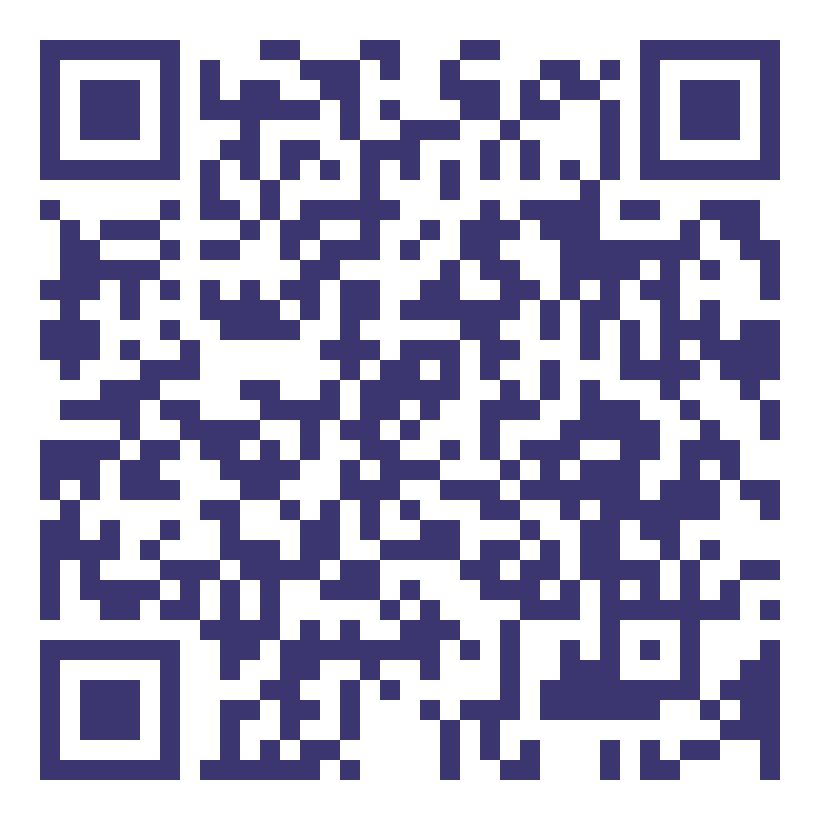
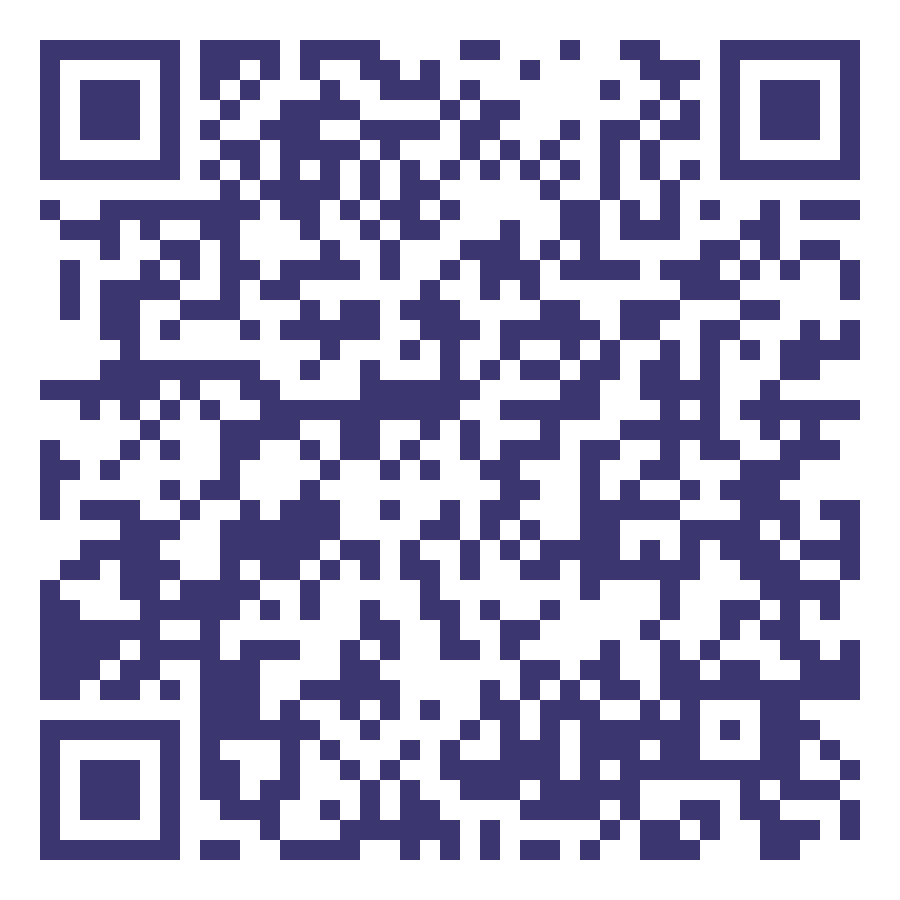
下载通道再优化：二维码及主下载改指 jsDelivr 直链（零登录墙、完整性 md5 已验证），Gitee Release 附件降为国内备用（微信 UA 会跳 OAuth 登录墙）；新增 Gitee v2.2.4 Release 附件分发；下载页标注 MD5

diff --git a/download.html b/download.html
@@ -25,13 +25,15 @@
   <h2>信息卡包 CardWallet</h2>
   <p>版本 v2.2.4 <span class="tag">最新</span></p>
   <p>常用信息加密管理 · 一秒取用 · 现代质感 UI</p>
-  <a class="btn" href="https://gitee.com/zhongda-st/cardwallet-release/raw/main/cardwallet-release.apk" download="cardwallet-v2.2.4.apk">国内高速下载（v2.2.4）</a>
-  <a class="btn secondary" href="cardwallet-release.apk?v=2.2.4" download="cardwallet-v2.2.4.apk">备用下载（GitHub）</a>
+  <a class="btn" href="https://cdn.jsdelivr.net/gh/Tony-zd/cardwallet-release@main/apk/cardwallet-latest.apk" download="cardwallet-v2.2.4.apk">国内高速下载（v2.2.4）</a>
+  <a class="btn secondary" href="https://gitee.com/zhongda-st/cardwallet-release/releases/download/v2.2.4/cardwallet-latest.apk" download="cardwallet-v2.2.4.apk">国内备用下载（Gitee）</a>
+  <a class="btn secondary" href="cardwallet-release.apk?v=2.2.4" download="cardwallet-v2.2.4.apk">GitHub 备用下载</a>
   <a class="btn secondary" href="https://gitee.com/zhongda-st/cardwallet-release/raw/main/%E6%B3%95%E5%BE%8B%E6%96%87%E6%A1%A3%E5%8C%85.zip" download="法律文档包.zip">下载法律文档包（隐私政策等）</a>
   <div class="meta">
     <p>包名: com.cardwallet.app · 最低 Android 6.0</p>
     <p>安装时需允许「安装未知应用」权限</p>
-    <p>国内用户优先使用「高速下载」；若链接失效，请点「备用下载」</p>
+    <p>优先使用「高速下载」；如失败或速度慢，请依次尝试备用链接</p>
+    <p>文件校验 MD5: f189af607cfbd18540898c010bd52fa0</p>
   </div>
 </div>
 </body>

diff --git a/index.html b/index.html
@@ -185,8 +185,8 @@
     <p class="subtitle">常用信息加密管理 · 一秒取用</p>
     <div class="version-tag" id="versionTag">v2.2.4 · 最新版</div>
 
-    <a class="btn btn-primary" id="downloadPrimary" href="https://gitee.com/zhongda-st/cardwallet-release/raw/main/apk/cardwallet-latest.apk">⬇ 下载 APK（v2.2.4 · 国内高速）</a>
-    <a class="btn btn-secondary" id="downloadBackup" href="https://raw.githubusercontent.com/Tony-zd/cardwallet-release/main/apk/cardwallet-latest.apk">🪞 备用下载（GitHub Raw）</a>
+    <a class="btn btn-primary" id="downloadPrimary" href="https://cdn.jsdelivr.net/gh/Tony-zd/cardwallet-release@main/apk/cardwallet-latest.apk">⬇ 下载 APK（v2.2.4 · 国内高速）</a>
+    <a class="btn btn-secondary" id="downloadBackup" href="https://gitee.com/zhongda-st/cardwallet-release/releases/download/v2.2.4/cardwallet-latest.apk">🪞 备用下载（Gitee 国内节点）</a>
 
     <div class="features">
       <h3>主要功能</h3>

diff --git a/promo/小红书软文.md b/promo/小红书软文.md
@@ -1,8 +1,8 @@
 # 信息卡包 · 小红书发布软文
 
 > 配套海报：`poster.png`（1080×1440，3:4 竖版，小红书标准比例）
-> 海报底部二维码 = Gitee 高速下载直链（扫码直接下载 APK）
-> 下载页：https://tony-zd.github.io/cardwallet-release/ （评论区置顶用）
+> 海报底部二维码 = jsDelivr 高速下载直链（扫码直接下载 APK，无需登录）
+> 下载页：https://tony-zd.github.io/cardwallet-release/ （评论区置顶用，页面内含多个备用下载源）
 
 ---
 
